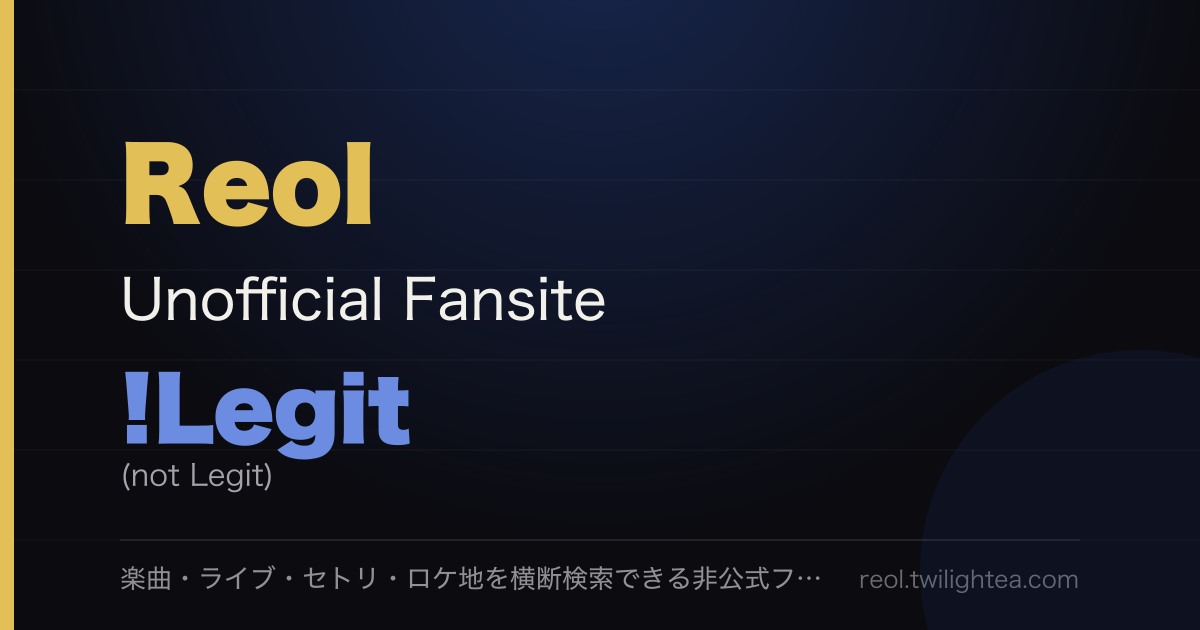
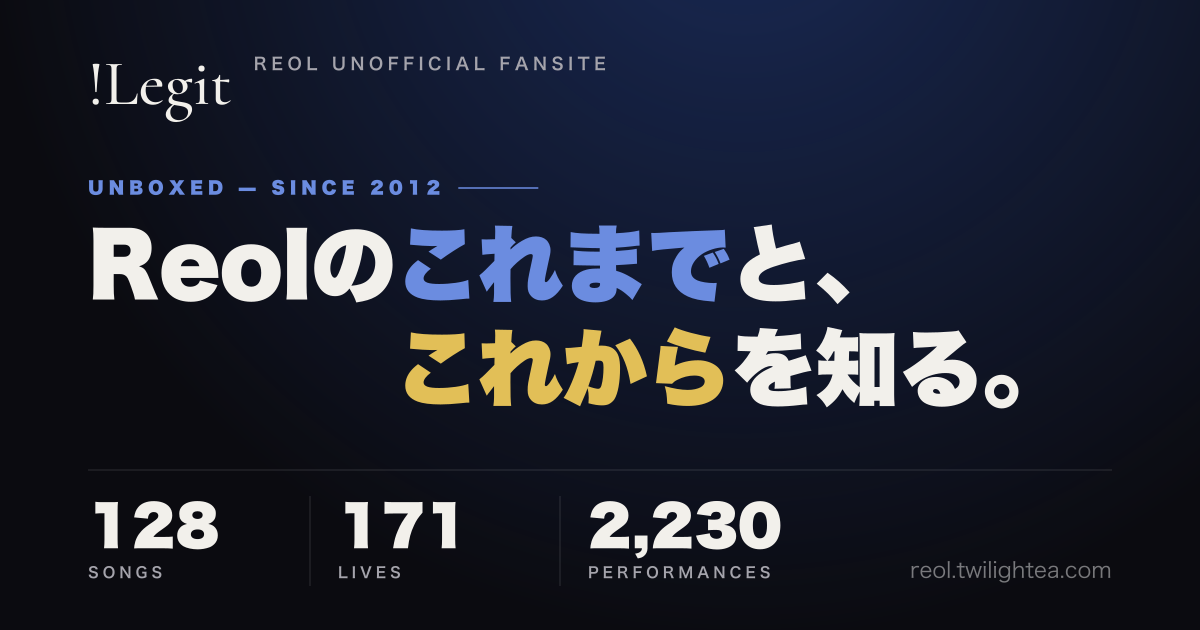
feat: サイト共通OGP画像をトップのヒーローと同じ構成にする
ロゴ(!Legit・Cormorant)、見出し、楽曲数・公演数・演奏数をビルド時に描く。
旧画像の説明文が途中で切れていたのも解消。

Claude-Session: https://claude.ai/code/session_019aiWLexjpzsr9jmmoxMXpr

diff --git a/scripts/generate-site-og.ts b/scripts/generate-site-og.ts
@@ -7,7 +7,7 @@
 
 import { promises as fs } from "fs";
 import path from "path";
-import { createCanvas } from "canvas";
+import { createCanvas, registerFont } from "canvas";
 
 const WIDTH = 1200;
 const HEIGHT = 630;
@@ -17,95 +17,146 @@ const BX_BG = "#0b0b10";
 const BX_INK = "#f2f0eb";
 const BX_INK3 = "#a5a4ac";
 const BX_BLUE = "#6b8ce0";
-const BX_BLUE_DEEP = "#27489b";
 const BX_YELLOW = "#e2bf57";
+
+// ヘッダーのロゴ(!Legit)と同じ Cormorant 500。サイトは Google Fonts から読むが、ここではパッケージの woff を使う
+const LOGO_FAMILY = "Cormorant OG";
+registerFont(require.resolve("@fontsource/cormorant/files/cormorant-latin-500-normal.woff"), {
+  family: LOGO_FAMILY,
+  weight: "500",
+});
 
 const fontJp = (size: number, weight = "400") =>
   `${weight} ${size}px "Hiragino Sans", "Hiragino Kaku Gothic ProN", sans-serif`;
 
-const drawOgImage = (): Buffer => {
+/** トップのヒーローと同じ数字(楽曲数・公演数・演奏数)。gatsby-node の SiteStats の値を受け取る */
+export interface SiteOgStats {
+  songCount: number;
+  liveItemCount: number;
+  performanceCount: number;
+}
+
+// 字間を空けた英字ラベル(サイトの tracking-[0.3em] 相当)。canvas の letterSpacing は環境差があるので1字ずつ置く
+const drawTracked = (
+  ctx: ReturnType<ReturnType<typeof createCanvas>["getContext"]>,
+  text: string,
+  x: number,
+  y: number,
+  spacing: number
+): number => {
+  let cx = x;
+  for (const ch of text) {
+    ctx.fillText(ch, cx, y);
+    cx += ctx.measureText(ch).width + spacing;
+  }
+  return cx - spacing;
+};
+
+const drawOgImage = (stats?: SiteOgStats): Buffer => {
   const canvas = createCanvas(WIDTH, HEIGHT);
   const ctx = canvas.getContext("2d");
+  const LEFT = 88;
+  const RIGHT = WIDTH - 88;
 
-  // === 背景: bx-bg 単色 ===
+  // === 背景: bx-bg に、上部の公式ブルーのラジアルグロー(body.tsxの固定背景と同モチーフ) ===
   ctx.fillStyle = BX_BG;
   ctx.fillRect(0, 0, WIDTH, HEIGHT);
-
-  // 上部の公式ブルーのラジアルグロー(body.tsxの固定背景と同モチーフ)
-  const glow = ctx.createRadialGradient(
-    WIDTH / 2, -80, 0,
-    WIDTH / 2, -80, 620
-  );
-  glow.addColorStop(0, "rgba(39, 72, 155, 0.45)");
+  const glow = ctx.createRadialGradient(WIDTH * 0.62, -120, 0, WIDTH * 0.62, -120, 760);
+  glow.addColorStop(0, "rgba(39, 72, 155, 0.5)");
   glow.addColorStop(1, "rgba(39, 72, 155, 0)");
   ctx.fillStyle = glow;
   ctx.fillRect(0, 0, WIDTH, HEIGHT);
 
-  // 装飾の水平ライン(reol-type OGと同モチーフ)
-  ctx.strokeStyle = "rgba(255, 255, 255, 0.05)";
-  ctx.lineWidth = 1;
-  for (let i = 1; i < 7; i++) {
-    ctx.beginPath();
-    ctx.moveTo(0, i * 90);
-    ctx.lineTo(WIDTH, i * 90);
-    ctx.stroke();
-  }
-
-  // 左端のイエローアクセントバー
-  ctx.fillStyle = BX_YELLOW;
-  ctx.fillRect(0, 0, 14, HEIGHT);
-
   ctx.textAlign = "left";
+  ctx.textBaseline = "alphabetic";
 
-  // === メインロゴタイプ ===
-  ctx.fillStyle = BX_YELLOW;
-  ctx.font = fontJp(96, "800");
-  ctx.fillText("Reol", 120, 220);
-
+  // === ヘッダー: ロゴ + REOL UNOFFICIAL FANSITE(サイトのヘッダーと同じ並び) ===
   ctx.fillStyle = BX_INK;
-  ctx.font = fontJp(56, "500");
-  ctx.fillText("Unofficial Fansite", 120, 320);
-
-  ctx.fillStyle = BX_BLUE;
-  ctx.font = fontJp(84, "800");
-  ctx.fillText("!Legit", 120, 440);
-
+  ctx.font = `500 64px "${LOGO_FAMILY}"`;
+  ctx.fillText("!Legit", LEFT, 104);
+  const logoWidth = ctx.measureText("!Legit").width;
   ctx.fillStyle = BX_INK3;
-  ctx.font = fontJp(30, "400");
-  ctx.fillText("(not Legit)", 120, 486);
+  ctx.font = fontJp(17, "700");
+  drawTracked(ctx, "REOL UNOFFICIAL FANSITE", LEFT + logoWidth + 22, 70, 4.5);
 
-  // === フッター ===
-  ctx.strokeStyle = "rgba(255, 255, 255, 0.15)";
+  // === 見出し: トップのヒーローと同じ2行(「これまで」は青、「これから」は黄) ===
+  ctx.fillStyle = BX_BLUE;
+  ctx.font = fontJp(17, "800");
+  const eyebrowEnd = drawTracked(ctx, "UNBOXED — SINCE 2012", LEFT, 194, 5);
+  ctx.strokeStyle = BX_BLUE;
+  ctx.lineWidth = 1.5;
   ctx.beginPath();
-  ctx.moveTo(120, 540);
-  ctx.lineTo(WIDTH - 120, 540);
+  ctx.moveTo(eyebrowEnd + 18, 188);
+  ctx.lineTo(eyebrowEnd + 98, 188);
   ctx.stroke();
-  const urlText = "reol.twilightea.com";
-  ctx.font = fontJp(24, "400");
-  const urlWidth = ctx.measureText(urlText).width;
-  const footerMaxWidth = WIDTH - 120 * 2 - urlWidth - 32;
 
-  let footerText = "楽曲・ライブ・セトリ・ロケ地を横断検索できる非公式ファンサイト";
-  ctx.font = fontJp(26, "500");
-  while (footerText.length > 3 && ctx.measureText(footerText).width > footerMaxWidth) {
-    footerText = footerText.slice(0, -2) + "…";
+  const HEAD = 84;
+  ctx.font = fontJp(HEAD, "800");
+  const parts1: Array<[string, string]> = [
+    ["Reolの", BX_INK],
+    ["これまで", BX_BLUE],
+    ["と、", BX_INK],
+  ];
+  let x = LEFT;
+  const line1Y = 296;
+  for (const [text, color] of parts1) {
+    ctx.fillStyle = color;
+    ctx.fillText(text, x, line1Y);
+    x += ctx.measureText(text).width;
   }
-  ctx.textAlign = "left";
-  ctx.fillStyle = "rgba(255, 255, 255, 0.55)";
-  ctx.fillText(footerText, 120, 588);
+  // 2行目は「これまで」の頭に揃える(サイトの heroLine2Indent と同じ)
+  x = LEFT + ctx.measureText("Reolの").width;
+  const line2Y = line1Y + 104;
+  for (const [text, color] of [
+    ["これから", BX_YELLOW],
+    ["を知る。", BX_INK],
+  ] as Array<[string, string]>) {
+    ctx.fillStyle = color;
+    ctx.fillText(text, x, line2Y);
+    x += ctx.measureText(text).width;
+  }
+
+  // === 数字: トップと同じ3つ。値が無いときは説明文に置き換える ===
+  const rowTop = 470;
+  ctx.strokeStyle = "rgba(255, 255, 255, 0.14)";
+  ctx.lineWidth = 1;
+  ctx.beginPath();
+  ctx.moveTo(LEFT, rowTop);
+  ctx.lineTo(RIGHT, rowTop);
+  ctx.stroke();
+
+  if (stats) {
+    const cells: Array<[number, string]> = [
+      [stats.songCount, "SONGS"],
+      [stats.liveItemCount, "LIVES"],
+      [stats.performanceCount, "PERFORMANCES"],
+    ];
+    const cellWidth = 250;
+    cells.forEach(([value, label], i) => {
+      const cx = LEFT + i * cellWidth;
+      if (i > 0) {
+        ctx.beginPath();
+        ctx.moveTo(cx - 28, rowTop + 26);
+        ctx.lineTo(cx - 28, rowTop + 116);
+        ctx.stroke();
+      }
+      ctx.fillStyle = BX_INK;
+      ctx.font = fontJp(54, "800");
+      ctx.fillText(value.toLocaleString("en-US"), cx, rowTop + 76);
+      ctx.fillStyle = BX_INK3;
+      ctx.font = fontJp(15, "700");
+      drawTracked(ctx, label, cx, rowTop + 108, 4);
+    });
+  } else {
+    ctx.fillStyle = BX_INK3;
+    ctx.font = fontJp(26, "500");
+    ctx.fillText("楽曲・ライブ・セトリ・ロケ地の非公式アーカイブ", LEFT, rowTop + 80);
+  }
 
   ctx.textAlign = "right";
-  ctx.fillStyle = "rgba(255, 255, 255, 0.4)";
-  ctx.font = fontJp(24, "400");
-  ctx.fillText(urlText, WIDTH - 120, 588);
-
-  // 右下の控えめなブルーアクセント
-  ctx.fillStyle = BX_BLUE_DEEP;
-  ctx.globalAlpha = 0.12;
-  ctx.beginPath();
-  ctx.arc(WIDTH - 60, HEIGHT - 60, 220, 0, Math.PI * 2);
-  ctx.fill();
-  ctx.globalAlpha = 1;
+  ctx.fillStyle = "rgba(255, 255, 255, 0.45)";
+  ctx.font = fontJp(22, "400");
+  ctx.fillText("reol.twilightea.com", RIGHT, rowTop + 108);
 
   return canvas.toBuffer("image/png");
 };
@@ -118,13 +169,13 @@ export interface GenerateSiteOgResult {
 
 // サイト既定のOG画像を static / public の両方へ書き出す
 export const generateSiteOgImage = async (
-  options: { outputDir?: string; mirrorOutputDir?: string } = {}
+  options: { outputDir?: string; mirrorOutputDir?: string; stats?: SiteOgStats } = {}
 ): Promise<GenerateSiteOgResult> => {
   const outputDir = options.outputDir || "static";
   const mirrorOutputDir = options.mirrorOutputDir || "public";
   const result: GenerateSiteOgResult = { generated: 0, skipped: 0, files: [] };
 
-  const png = drawOgImage();
+  const png = drawOgImage(options.stats);
   const fileName = "ogimage.png";
 
   await fs.mkdir(outputDir, { recursive: true });

diff --git a/gatsby-node.ts b/gatsby-node.ts
@@ -1373,7 +1373,12 @@ const createSongStatsNodes = async (
     console.log(
       `[setlist-grammar] pairs=${pairCounts.size} openers=${openerCount.size} closers=${closerCount.size} tourDiffs=${tourDiffs.length} workTrends=${workTrends.length}`
     );
-  }
+  }  // サイト既定のOG画像にトップと同じ数字を載せるため、集計値を返す
+  return {
+    songCount: siteStats.songCount,
+    liveItemCount: siteStats.liveItemCount,
+    performanceCount: siteStats.performanceCount,
+  };
 };
 
 /**
@@ -1526,7 +1531,7 @@ export const sourceNodes: GatsbyNode["sourceNodes"] = async (args) => {
       createPostsIndexNode(sheet, args),
     ]);
     // disc/live のロード後に楽曲×ライブのインデックスを作る
-    await createSongStatsNodes(sheet, args);
+    const siteOgStats = await createSongStatsNodes(sheet, args);
     const relive = await generateReliveData({
       liveJsonPath: "static/data/live.json",
       discographyJsonPath: "static/data/discography.json",
@@ -1548,6 +1553,7 @@ export const sourceNodes: GatsbyNode["sourceNodes"] = async (args) => {
     const siteOg = await generateSiteOgImage({
       outputDir: "static",
       mirrorOutputDir: "public",
+      stats: siteOgStats,
     });
     console.log(`[site-og] generated=${siteOg.generated}, skipped=${siteOg.skipped}`);
   } catch (error) {

diff --git a/plan/README.md b/plan/README.md
@@ -59,6 +59,7 @@ Reol非公式ファンサイト「!Legit」(https://reol.twilightea.com/) の UI
 | [50-seimeisen-article-design.md](./50-seimeisen-article-design.md) | 楽曲記事「生命線」の記事別デザイン: 深い青の地に一本の線、刻む断片がサビで開ける、嫌いと好きが同じ線の上と下、傷と色が重なる手のひらの線(限定公開) |
 | [51-articles-rss-feed.md](./51-articles-rss-feed.md) | 読みものの RSS フィード(/articles/feed.xml): 全体公開の記事だけ、一覧にリンク、head に alternate |
 | [52-articles-index-cards.md](./52-articles-index-cards.md) | 読みもの一覧をカード型に: 記事の表紙を撮った画像(articles-cover)を上に、1〜3列 |
+| [53-site-og-refresh.md](./53-site-og-refresh.md) | サイト共通OGP画像をトップのヒーローと同じ構成に(ロゴ・見出し・数字)。説明文の切れも解消 |
 | [40-end-article-design.md](./40-end-article-design.md) | 楽曲記事「エンド」の記事別デザイン: 曇った海の水平線に沈む終止符、エンド●レス、黒枠の葬式、届かない電話、光に包まれた終止符 |
 | [legit-improvement-plan.md](./legit-improvement-plan.md) | 外部観察ベースの改善プラン・実装引き継ぎ資料(2026-07-26)。見送り項目リスト(§6)を含む — 大半実装済み(状況は27で更新) |
 | [issues/](./issues/) | GitHub Issue化できる粒度の個別Issue案(13件) |

diff --git a/plan/53-site-og-refresh.md b/plan/53-site-og-refresh.md
@@ -1,0 +1,21 @@
+# 53. サイト共通OGP画像の作り直し(2026-10-23)
+
+## 何を直したか
+旧画像(バッチ8c)の問題:
+- 下の説明文が幅に収まらず「…非公式フ…」で切れていた
+- 一番大きい文字が「Reol」で、サイト名(!Legit)が脇役。ロゴの書体もサイトと違った
+- 右半分が空いていて、どんなサイトか伝わる要素がなかった
+
+新画像は、トップページのヒーローと同じ構成にした。
+- 左上: ヘッダーと同じ `!Legit`(Cormorant 500)+ `REOL UNOFFICIAL FANSITE`
+- `UNBOXED — SINCE 2012` と見出し「Reolのこれまでと、/これからを知る。」(これまで=青、これから=黄)
+- 下段: トップと同じ数字(SONGS / LIVES / PERFORMANCES)と URL
+
+## 仕組み
+- `scripts/generate-site-og.ts` がビルド時(gatsby-node `sourceNodes`)に描く。数字は `createSongStatsNodes` が返す SiteStats と同じ値
+- 数字はビルドのたびに変わり、画像 URL には既存のとおり `?t=ビルド時刻` が付くので SNS 側も読み直す
+- 単体実行(数字なし)のときは数字の代わりに説明文を出す
+- ロゴ書体は `@fontsource/cormorant`(OFL)の woff を node-canvas に登録。日本語は従来どおり Hiragino(デプロイはこの Mac)
+
+## 残り
+- 英語ページも同じ日本語の画像になる(以前も日本語混じり)
